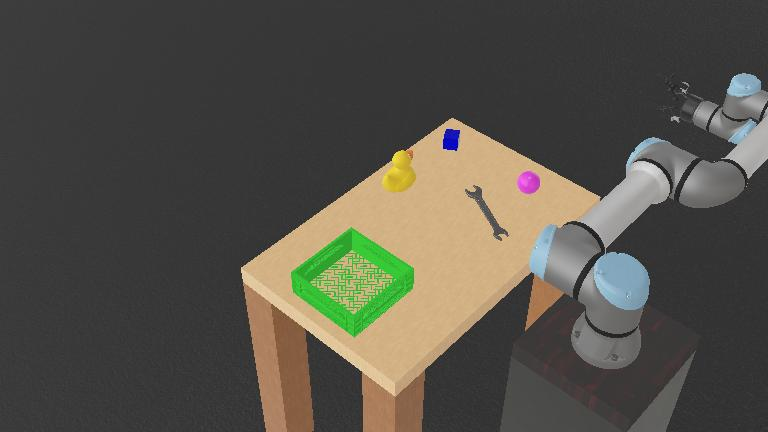
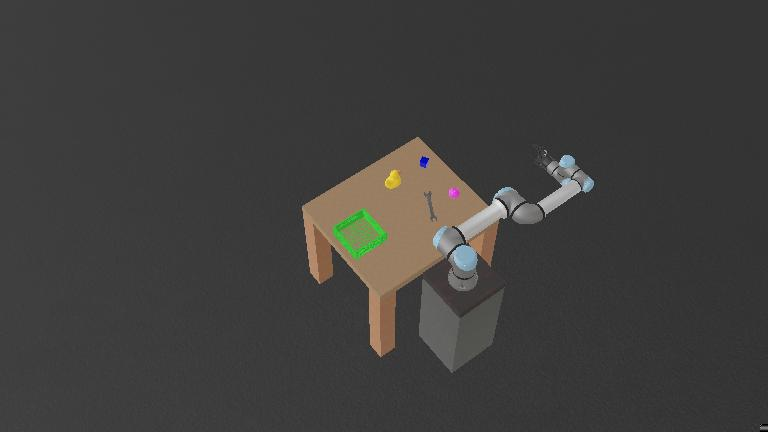
fix: adjust motor velocities and gripper parameters for improved performance feat: update camera configurations and table dimensions in simulation world

Changed region(s): [[0.3125, 0.1505, 1.0, 1.0], [0.8125, 0.8125, 0.9062, 1.0], [0.9688, 0.963, 1.0, 1.0]]

diff --git a/controllers/record_controller/record_controller.py b/controllers/record_controller/record_controller.py
@@ -1,7 +1,7 @@
 """
 Dense recording – only saves successful episodes (cube in bin).
-Automatically discards failures. Resumes from last saved episode.
-Bin avoidance uses actual crate dimensions.
+Automatically discards failures. Bin avoidance uses actual crate dimensions.
+All cameras: 640x480 (matching Berkeley UR5 for later merge).
 """
 
 import os
@@ -40,15 +40,16 @@ print(f"[INFO] Webots timestep = {timestep} ms → recording at {actual_fps} FPS
 
 table_node = supervisor.getFromDef(SIM_TABLE_DEF)
 table_pos = table_node.getPosition()
-TABLE_HEIGHT = table_node.getField("size").getSFVec3f()[2]
+table_size = table_node.getField("size").getSFVec3f()   # (width, depth, height)
+TABLE_HEIGHT = table_size[2]
 HOME_POS = [float(table_pos[0]), float(table_pos[1]), TABLE_HEIGHT + GRIPPER_LIFT_HEIGHT]
 
-# Table dimensions: size 0.8 (X) by 0.5 (Y), centered at (0, 0.52)
-TABLE_X_MIN = table_pos[0] - 0.4      # -0.4
-TABLE_X_MAX = table_pos[0] + 0.4      #  0.4
-TABLE_Y_MIN = table_pos[1] - 0.25     #  0.27
-TABLE_Y_MAX = table_pos[1] + 0.25     #  0.77
-SAFETY_MARGIN = 0.05    # 5 cm from table edges
+# Table bounds (world coordinates)
+TABLE_X_MIN = table_pos[0] - table_size[0]/2
+TABLE_X_MAX = table_pos[0] + table_size[0]/2
+TABLE_Y_MIN = table_pos[1] - table_size[1]/2
+TABLE_Y_MAX = table_pos[1] + table_size[1]/2
+SAFETY_MARGIN = 0.07   # 5 cm from table edges
 
 # ========== Cameras ==========
 CHANNELS = 3
@@ -75,21 +76,21 @@ depth_receiver.enable(timestep)
 
 target_node = supervisor.getFromDef("OBJ1")
 dest_node = supervisor.getFromDef("BIN")
-# Save safe default cube position (centre of table, avoid bin area)
-DEFAULT_CUBE_POS = [0.2, 0.55, 0.72]   # X: 0.2, Y: 0.55, Z: 0.72
+DEFAULT_CUBE_POS = target_node.getPosition()   # will be overwritten but kept
 DEFAULT_CUBE_ROT = target_node.getField("rotation").getSFRotation()
+# Safe default position (centre of table, avoid bin)
+DEFAULT_CUBE_POS = [0.2, 0.55, DEFAULT_CUBE_POS[2]]   # Z from original
 
-# ========== Bin world bounding box (axis-aligned) ==========
+# ========== Bin world bounding box ==========
 bin_pos = dest_node.getPosition()
-bin_size = dest_node.getField("size").getSFVec3f()      # (width, depth, height)
-# Bin rotation is 0 0 -1 0 (no rotation), so width along X, depth along Y
+bin_size = dest_node.getField("size").getSFVec3f()   # (width, depth, height)
 bin_half_world_x = bin_size[0] / 2.0
 bin_half_world_y = bin_size[1] / 2.0
 BIN_X_MIN = bin_pos[0] - bin_half_world_x
 BIN_X_MAX = bin_pos[0] + bin_half_world_x
 BIN_Y_MIN = bin_pos[1] - bin_half_world_y
 BIN_Y_MAX = bin_pos[1] + bin_half_world_y
-BIN_MARGIN = 0.07   # extra clearance around bin (7 cm)
+BIN_MARGIN = 0.07   # 7 cm clearance
 
 print(f"[Bin] Footprint: X=[{BIN_X_MIN:.3f}, {BIN_X_MAX:.3f}], Y=[{BIN_Y_MIN:.3f}, {BIN_Y_MAX:.3f}]")
 
@@ -103,10 +104,8 @@ def reset_cube_to_default():
 
 def is_cube_safe(z_threshold=0.69):
     pos = target_node.getPosition()
-    # Z check: cube should be above table (not fallen)
     if pos[2] < z_threshold:
         return False
-    # XY check: cube must be within table bounds minus safety margin
     if not (TABLE_X_MIN + SAFETY_MARGIN < pos[0] < TABLE_X_MAX - SAFETY_MARGIN):
         return False
     if not (TABLE_Y_MIN + SAFETY_MARGIN < pos[1] < TABLE_Y_MAX - SAFETY_MARGIN):
@@ -114,7 +113,6 @@ def is_cube_safe(z_threshold=0.69):
     return True
 
 def randomize_cube_pose(avoid_bin=True):
-    # Safe range inside table with margin
     x_min, x_max = TABLE_X_MIN + SAFETY_MARGIN, TABLE_X_MAX - SAFETY_MARGIN
     y_min, y_max = TABLE_Y_MIN + SAFETY_MARGIN, TABLE_Y_MAX - SAFETY_MARGIN
 
@@ -122,12 +120,10 @@ def randomize_cube_pose(avoid_bin=True):
         for _ in range(100):
             x = random.uniform(x_min, x_max)
             y = random.uniform(y_min, y_max)
-            # Check if cube's center is outside the expanded bin rectangle
             if (x < BIN_X_MIN - BIN_MARGIN or x > BIN_X_MAX + BIN_MARGIN or
                 y < BIN_Y_MIN - BIN_MARGIN or y > BIN_Y_MAX + BIN_MARGIN):
                 break
         else:
-            # Fallback: place far from bin (top‑right area)
             x = 0.25
             y = 0.60
             print("[Warning] Could not find safe cube position, using fallback.")
@@ -135,7 +131,7 @@ def randomize_cube_pose(avoid_bin=True):
         x = random.uniform(x_min, x_max)
         y = random.uniform(y_min, y_max)
 
-    z = DEFAULT_CUBE_POS[2]   # 0.72 (table top + cube half height)
+    z = DEFAULT_CUBE_POS[2]
     target_node.getField("translation").setSFVec3f([x, y, z])
     yaw = random.uniform(-3.14159, 3.14159)
     target_node.getField("rotation").setSFRotation([0, 0, 1, yaw])
@@ -248,7 +244,6 @@ for episode_idx in range(NUM_EPISODES):
         if frame:
             dataset.add_frame(frame)
             frame_count += 1
-    # Settle after home move (0.4 seconds)
     settle_steps = int(0.4 / control_dt)
     for _ in range(settle_steps):
         supervisor.step(timestep)
@@ -257,13 +252,12 @@ for episode_idx in range(NUM_EPISODES):
             dataset.add_frame(frame)
             frame_count += 1
 
-    robot.operate_gripper(close=False)   # original blocking open
+    robot.operate_gripper(close=False)
     gripper_cmd = 0.0
     success = False
 
     # ---- PICKING phase ----
     cube_pos = target_node.getPosition()
-    # Approach
     approach_pos = [cube_pos[0], cube_pos[1], cube_pos[2] + GRIPPER_LIFT_HEIGHT]
     robot.move_to_world_target_async(approach_pos)
     while not robot.is_target_reached() and supervisor.step(timestep) != -1:
@@ -271,7 +265,6 @@ for episode_idx in range(NUM_EPISODES):
         if frame:
             dataset.add_frame(frame)
             frame_count += 1
-    # Settle after approach
     for _ in range(settle_steps):
         supervisor.step(timestep)
         frame = capture_frame(gripper_cmd, success, done_flag=False)
@@ -279,7 +272,6 @@ for episode_idx in range(NUM_EPISODES):
             dataset.add_frame(frame)
             frame_count += 1
 
-    # Lower to hover
     hover_pos = [cube_pos[0], cube_pos[1], cube_pos[2] + GRIPPER_TARGET_HOVER_HEIGHT]
     robot.move_to_world_target_async(hover_pos)
     while not robot.is_target_reached() and supervisor.step(timestep) != -1:
@@ -287,7 +279,6 @@ for episode_idx in range(NUM_EPISODES):
         if frame:
             dataset.add_frame(frame)
             frame_count += 1
-    # Settle after hover
     for _ in range(settle_steps):
         supervisor.step(timestep)
         frame = capture_frame(gripper_cmd, success, done_flag=False)
@@ -295,19 +286,17 @@ for episode_idx in range(NUM_EPISODES):
             dataset.add_frame(frame)
             frame_count += 1
 
-    # Close gripper (original blocking method – fixed time wait)
+    # Close gripper
     robot.operate_gripper(close=True)
     gripper_cmd = 1.0
-    # Record a few frames after closing (settle)
-    settle_steps = int(0.3 / control_dt)
-    for _ in range(settle_steps):
+    settle_steps_grip = int(0.3 / control_dt)
+    for _ in range(settle_steps_grip):
         supervisor.step(timestep)
         frame = capture_frame(gripper_cmd, success, done_flag=False)
         if frame:
             dataset.add_frame(frame)
             frame_count += 1
 
-    # Lift
     lift_pos = [cube_pos[0], cube_pos[1], cube_pos[2] + GRIPPER_LIFT_HEIGHT]
     robot.move_to_world_target_async(lift_pos)
     while not robot.is_target_reached() and supervisor.step(timestep) != -1:
@@ -315,7 +304,6 @@ for episode_idx in range(NUM_EPISODES):
         if frame:
             dataset.add_frame(frame)
             frame_count += 1
-    # Settle after lift
     for _ in range(settle_steps):
         supervisor.step(timestep)
         frame = capture_frame(gripper_cmd, success, done_flag=False)
@@ -332,7 +320,6 @@ for episode_idx in range(NUM_EPISODES):
         if frame:
             dataset.add_frame(frame)
             frame_count += 1
-    # Settle after moving above bin
     for _ in range(settle_steps):
         supervisor.step(timestep)
         frame = capture_frame(gripper_cmd, success, done_flag=False)
@@ -340,10 +327,9 @@ for episode_idx in range(NUM_EPISODES):
             dataset.add_frame(frame)
             frame_count += 1
 
-    # Open gripper (original blocking)
     robot.operate_gripper(close=False)
     gripper_cmd = 0.0
-    for _ in range(settle_steps):
+    for _ in range(settle_steps_grip):
         supervisor.step(timestep)
         frame = capture_frame(gripper_cmd, success, done_flag=False)
         if frame:
@@ -352,7 +338,7 @@ for episode_idx in range(NUM_EPISODES):
 
     # Check success
     cube_final_pos = target_node.getPosition()
-    if ((cube_final_pos[0] - bin_pos[0])**2 + (cube_final_pos[1] - bin_pos[1])**2) < 0.15**2:
+    if ((cube_final_pos[0] - bin_pos[0])**2 + (cube_final_pos[1] - bin_pos[1])**2) < 0.1**2:  # bin half width 0.1
         success = True
         successes += 1
     else:

diff --git a/config.py b/config.py
@@ -21,10 +21,10 @@ CAM3_RECEIVER = "cam3_receiver"
 
 SIM_TABLE_DEF = "SIM_TABLE"
 
-ARM_MOTOR_VELOCITY = 0.5
-GRIPPER_MOTOR_VELOCITY = 0.6
+ARM_MOTOR_VELOCITY = 0.35
+GRIPPER_MOTOR_VELOCITY = 1.5
 GRIPPER_TARGET_HOVER_HEIGHT = -0.002
-GRIPPER_LIFT_HEIGHT = 0.2
+GRIPPER_LIFT_HEIGHT = 0.15
 GRIPPER_TARGET_ANGLE_OPEN = 0.0
 GRIPPER_TARGET_ANGLE_CLOSED = 0.7
 
@@ -32,7 +32,6 @@ GRIPPER_TARGET_ANGLE_CLOSED = 0.7
 HF_TOKEN = os.getenv("HF_TOKEN")
 HF_BASE_URL = os.getenv("HF_BASE_URL")
 
-# VLM CONFIG
 VLM_PATH = "Qwen/Qwen2.5-VL-72B-Instruct:ovhcloud"
 VLM_USER_PROMPTS = {
     "baseline": "Identify the blue cube and the green crate. Return a JSON object with these exact keys: 'cube_x_norm', 'cube_y_norm', 'bin_x_norm', 'bin_y_norm'.",
@@ -41,19 +40,17 @@ VLM_USER_PROMPTS = {
     "ood_test": "Identify the jam jar and the green crate. Return a JSON object with these exact keys: 'target_x_norm', 'target_y_norm', 'bin_x_norm', 'bin_y_norm'."
 }
 
-# VLA CONFIG
 VLA_PATH = "lerobot/smolvla_base"
 VLA_API_URL = "https://perinephral-catechisable-mirta.ngrok-free.dev"
-INFERENCE_EVERY_N = 5 
+INFERENCE_EVERY_N = 5
 VLA_USER_PROMPTS = {
     "baseline": "pick up the blue cube and put it in the green crate",
     "nudge": "pick up the blue cube and put it in the green crate",
     "ood": "pick up the jam jar and put it in the green crate"
 }
 
-# TESTING / DEBUGGING PARAMETERS
-TARGET_NUDGES = 1 # Number of nudges to perform during the Dynamic Nudge Tracking test
-NUDGE_RANGE = (0.10, 0.20) # Range (in meters) for random nudge shifts on the X and Y axes
+TARGET_NUDGES = 1
+NUDGE_RANGE = (0.10, 0.20)
 NUDGE_TOLERANCE_NORM = min(NUDGE_RANGE)
 
 def GET_RECEIVER_BASE64_IMAGE(receiver, preview_img=False, format="base64"):
@@ -61,16 +58,12 @@ def GET_RECEIVER_BASE64_IMAGE(receiver, preview_img=False, format="base64"):
     while receiver.getQueueLength() > 0:
         last_packet = receiver.getBytes()
         receiver.nextPacket()
-    
     if last_packet:
         nparr = np.frombuffer(last_packet, np.uint8)
         frame = cv2.imdecode(nparr, cv2.IMREAD_COLOR)
-
-        # Preview for debugging
         if preview_img:
             cv2.imshow("AI Feed", frame)
             cv2.waitKey(1)
-
         if format == "base64":
             _, buffer = cv2.imencode('.jpg', frame)
             base64_img = base64.b64encode(buffer).decode('utf-8')
@@ -84,7 +77,6 @@ def GET_RECEIVER_DEPTH_IMAGE(receiver, DEPTH_HEIGHT, DEPTH_WIDTH, MIN_DEPTH, MAX
     while receiver.getQueueLength() > 0:
         last_packet = receiver.getBytes()
         receiver.nextPacket()
-    
     if last_packet:
         depth_img = np.frombuffer(last_packet, dtype=np.float32).reshape((DEPTH_HEIGHT, DEPTH_WIDTH))
         depth_norm = (depth_img - MIN_DEPTH) / (MAX_DEPTH - MIN_DEPTH)
@@ -92,20 +84,15 @@ def GET_RECEIVER_DEPTH_IMAGE(receiver, DEPTH_HEIGHT, DEPTH_WIDTH, MIN_DEPTH, MAX
         depth_rgb = np.stack([depth_norm, depth_norm, depth_norm], axis=-1)
         depth_rgb = (depth_rgb * 255).astype(np.uint8)
         return depth_rgb
-
     return None
 
 def PIXEL_TO_WORLD(px, py, TABLE_HEIGHT, CAM_FOV, CAM_HEIGHT, CAM_WIDTH, CAM_X, CAM_Y, CAM_Z):
     _height = CAM_Z - TABLE_HEIGHT
-
     _ground_w = 2.0 * _height * np.tan(CAM_FOV / 2.0)
     _ground_h = _ground_w * (CAM_HEIGHT / CAM_WIDTH)
-    MPP_X =  _ground_w / CAM_WIDTH
+    MPP_X = _ground_w / CAM_WIDTH
     MPP_Y = -_ground_h / CAM_HEIGHT
-
-    # Math Mapping
     cx, cy = CAM_WIDTH / 2.0, CAM_HEIGHT / 2.0
     world_x = float(round(CAM_X + ((px * CAM_WIDTH) - cx) * MPP_X, 3))
     world_y = float(round(CAM_Y + ((py * CAM_HEIGHT) - cy) * MPP_Y, 3))
-
     return world_x, world_y
